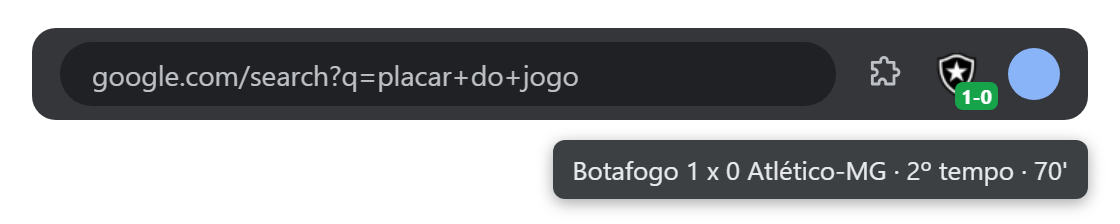
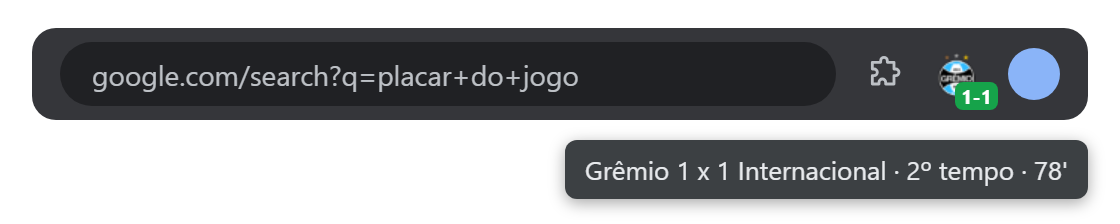
docs: atualiza a página do repositório

Changed region(s): [[0.4688, 0.625, 0.8125, 0.9062], [0.8125, 0.2188, 0.9062, 0.4688], [0.9375, 0.75, 0.9688, 0.7812]]

diff --git a/README.md b/README.md
@@ -21,7 +21,7 @@
 </p>
 
 <p align="center">
-  <img src="docs/icone.png" width="560" alt="Barra do Chrome com o escudo do Botafogo e o selo verde 1-0; a dica mostra Botafogo 1 x 0 Atlético-MG, 2º tempo, 70 minutos">
+  <img src="docs/icone.png" width="560" alt="Barra do Chrome com o escudo do Grêmio e o selo verde 1-1; a dica mostra Grêmio 1 x 1 Internacional, 2º tempo, 78 minutos">
 </p>
 
 ---
@@ -29,7 +29,7 @@
 <table>
   <tr>
     <td width="330" valign="top">
-      <img src="docs/popup.png" width="320" alt="Popup da extensão: card ao vivo de Botafogo 1 x 0 Atlético-MG com os lances, outros favoritos e os jogos do dia">
+      <img src="docs/popup.png" width="320" alt="Popup da extensão: card ao vivo do Grenal, Grêmio 1 x 1 Internacional, com os gols de Vitinho e Wallace, outros favoritos e os jogos do dia">
     </td>
     <td valign="top">
       <h3>O que ela faz</h3>
@@ -66,7 +66,7 @@
 | ![14d](https://img.shields.io/badge/14d-2563eb?style=flat-square) | Faltam 14 dias para o próximo jogo |
 | ![!](https://img.shields.io/badge/!-dc2626?style=flat-square) | Sem conexão há mais de 2 minutos |
 
-Passe o mouse no ícone para ver o texto completo, como *"Grêmio 1 x 0 Bahia · 1º tempo · 34'"*.
+Passe o mouse no ícone para ver o texto completo, como *"Grêmio 1 x 1 Internacional · 2º tempo · 78'"*.
 
 ## Perguntas frequentes
 
